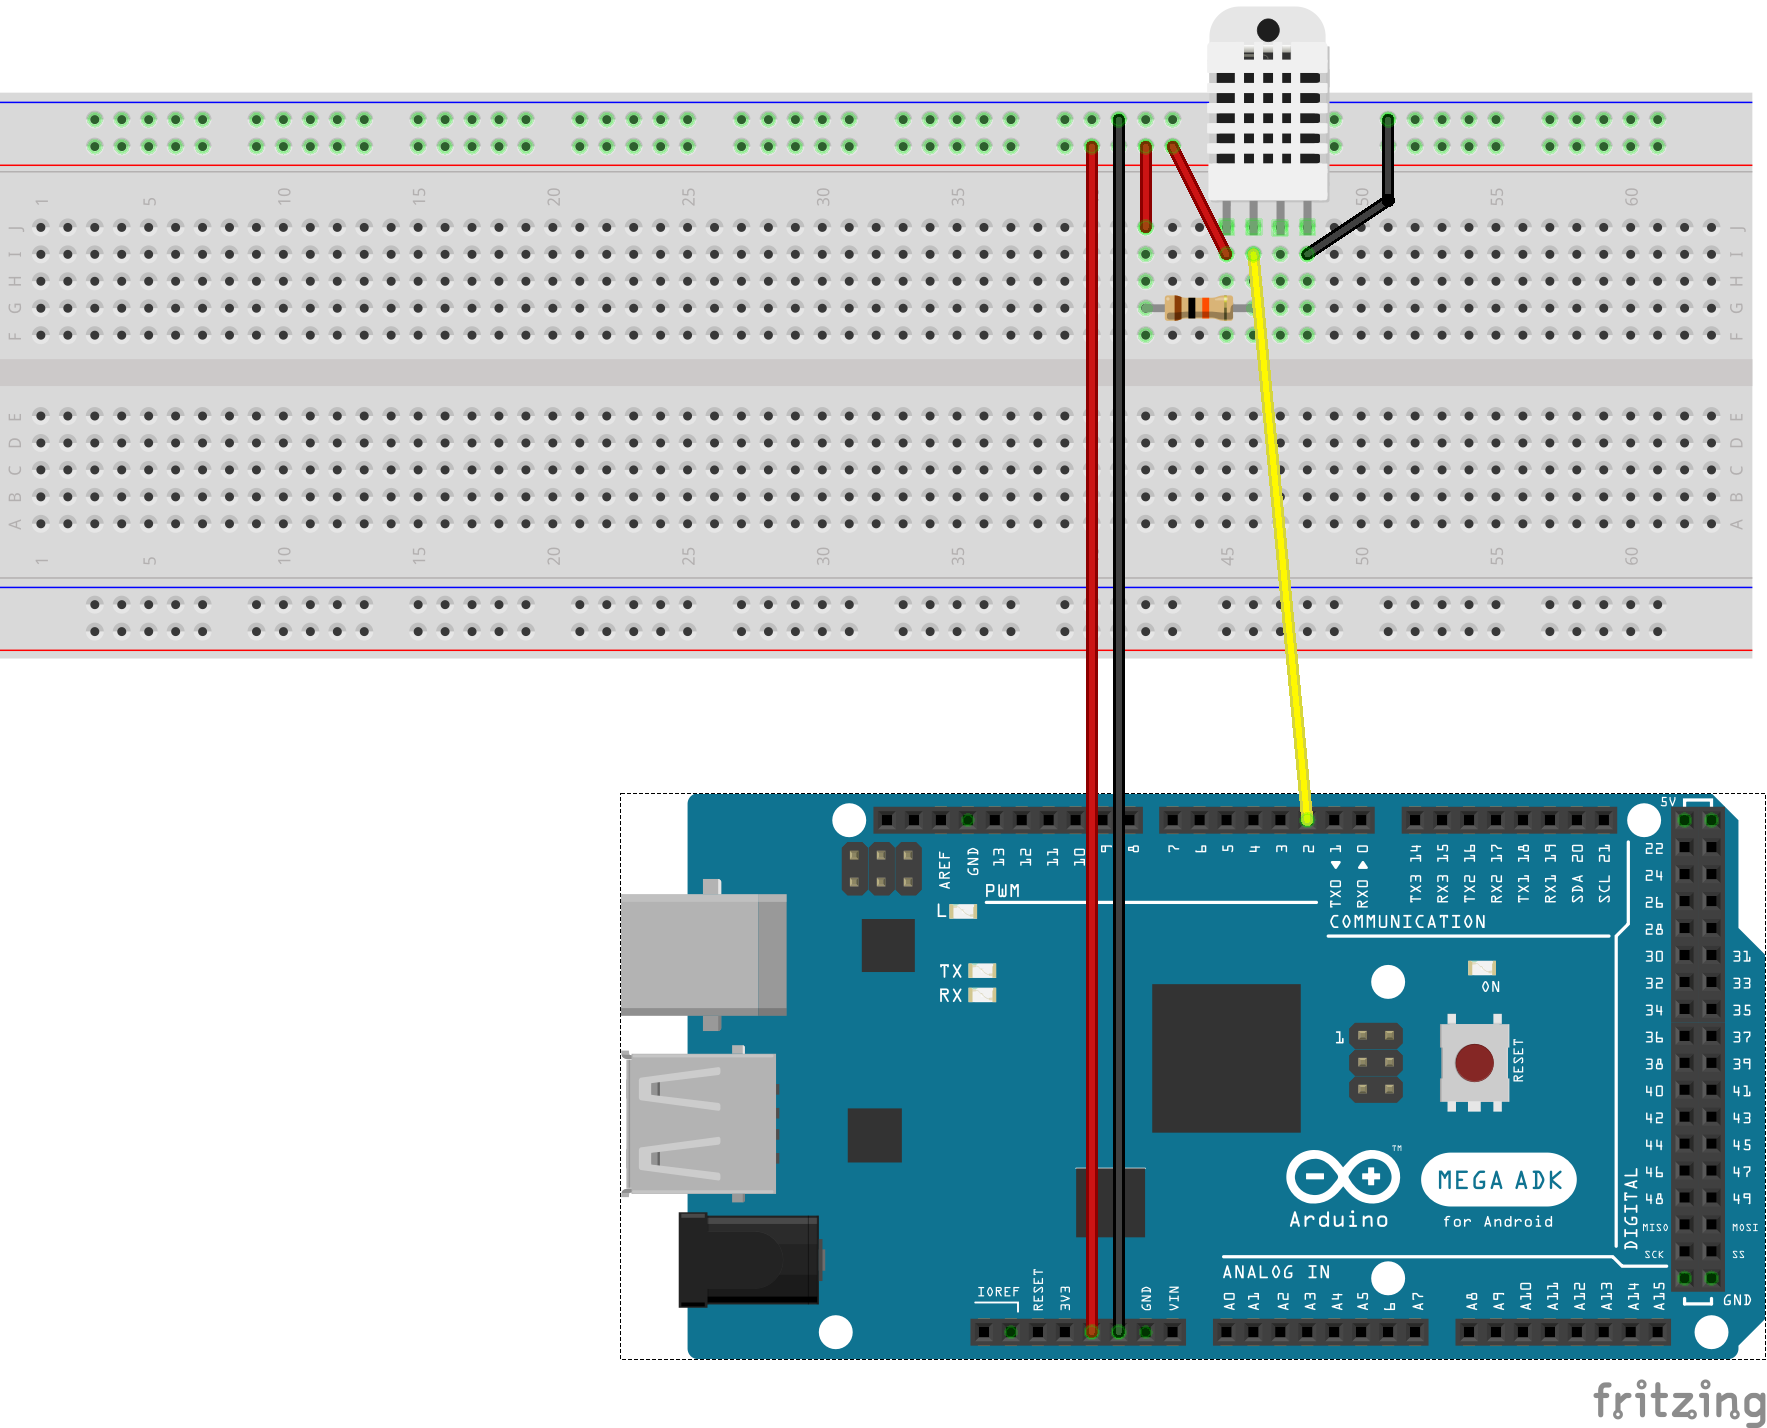
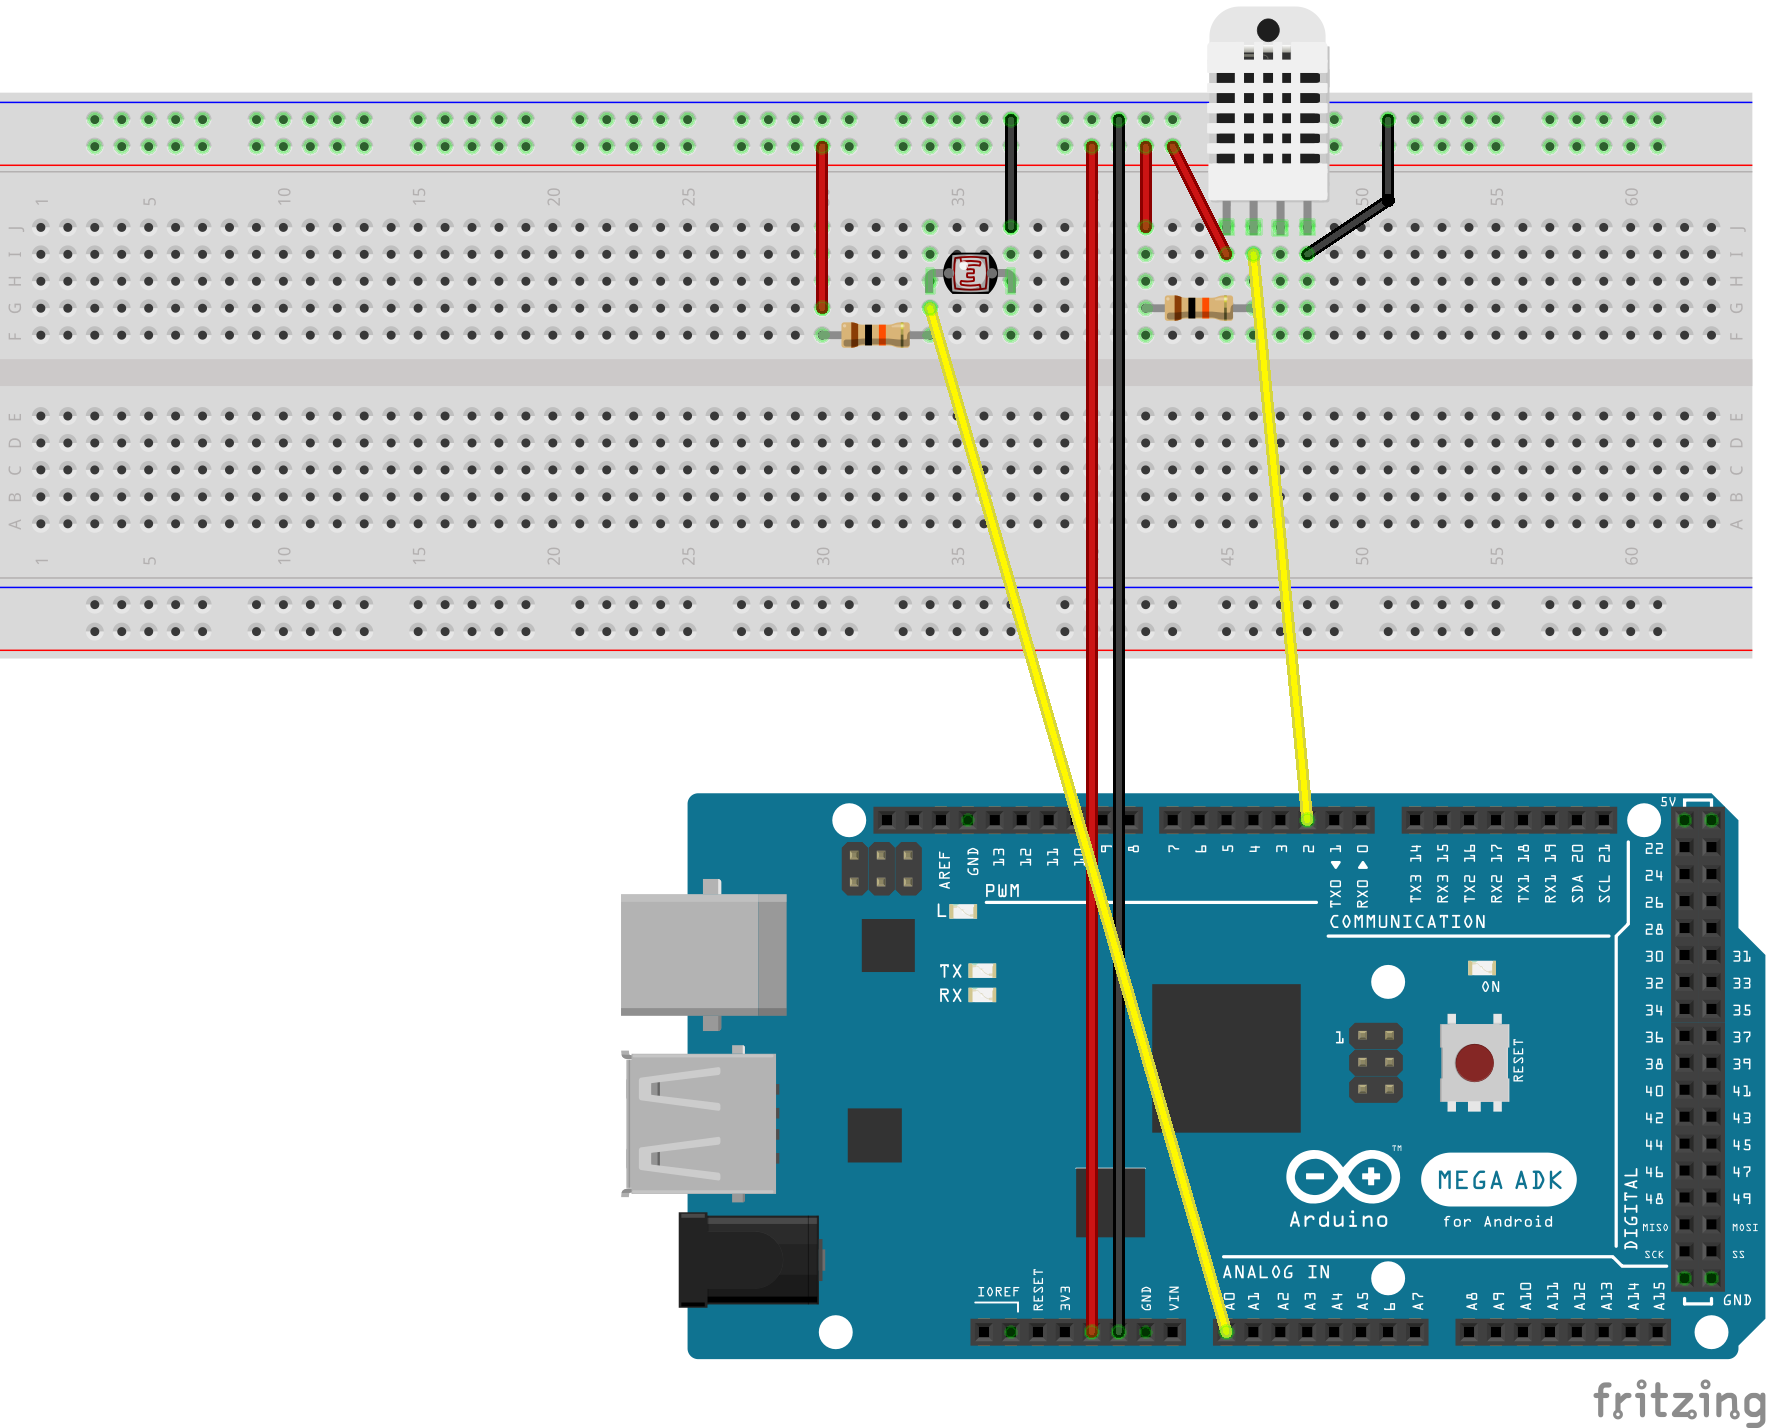
faster polling + new sketch

diff --git a/src/DataLogger.cpp b/src/DataLogger.cpp
@@ -41,7 +41,7 @@ void readLDR() {
 
 void loop()
 {
-  delay(1000);
+  delay(100);
   readDHT();
   readLDR();
 }

diff --git a/README.md b/README.md
@@ -1,1 +1,6 @@
-# arduino-cellar-monitor
+# Arduino cellar monitor
+[![travis badge](https://api.travis-ci.org/dhelleberg/arduino-cellar-monitor.svg?branch=master)](https://travis-ci.org/dhelleberg/arduino-cellar-monitor)
+
+Monitors different systems in my cellar.
+
+![wiring sketch](sketch_bb.png)
